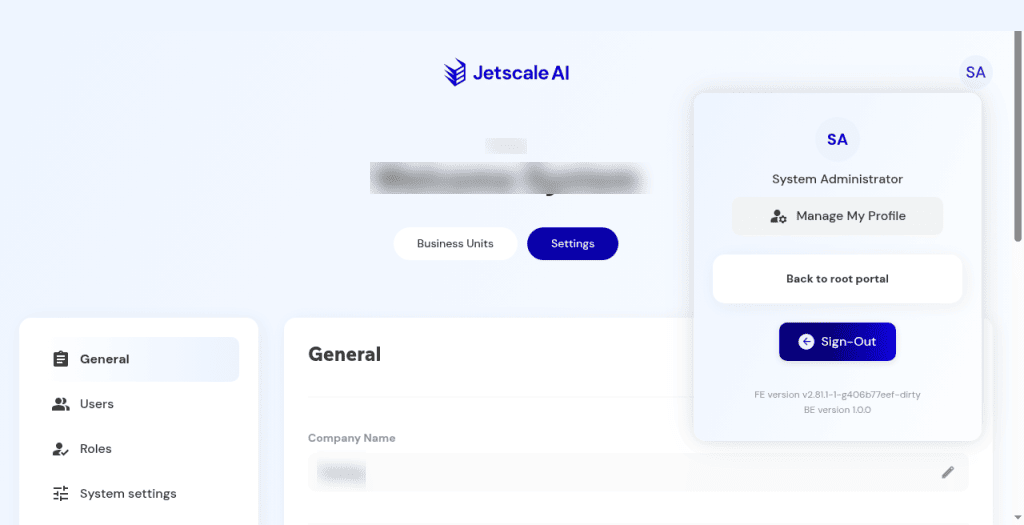
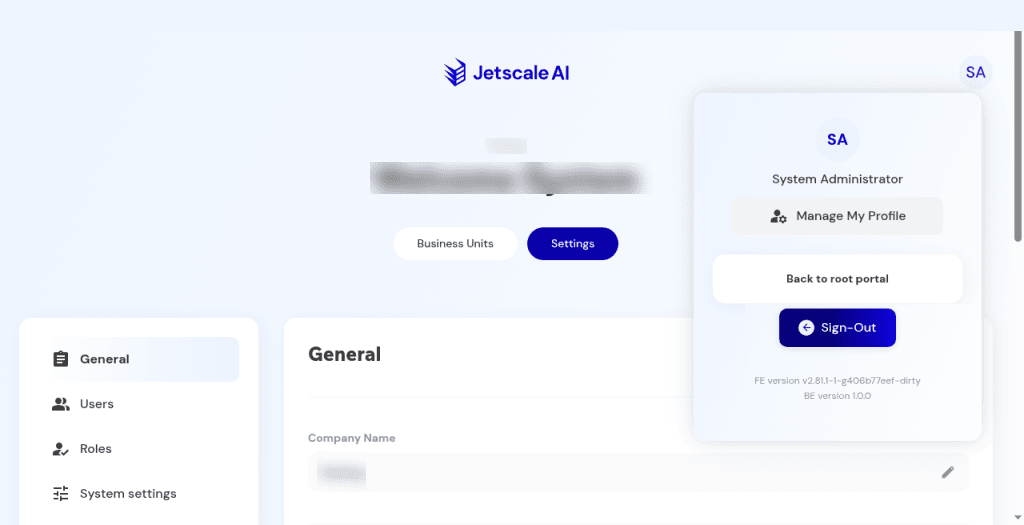
Remove root-portal and Manage Account chrome from Product shots.
The company profile menu keeps only Manage my profile and Sign out. The resources empty state no longer names Manage Account or shows the debug toggle, and the recommendations steps number in order.

Changed region(s): [[0.75, 0.579, 0.9062, 0.7924]]

diff --git a/product/main/recommendations.md b/product/main/recommendations.md
@@ -18,14 +18,14 @@ Anyone working the savings loop. Opening the list requires permission to view re
 
    **Production console**
 
-1. On a build with category tabs, the tabs are **Compute**, **Storage**, **Database**, and **Inference**. There is no Network tab.
+2. On a build with category tabs, the tabs are **Compute**, **Storage**, **Database**, and **Inference**. There is no Network tab.
 
    ![Recommendations on the Compute tab. The tabs are Compute, Storage, Database, and Inference.](../images/main/recommendations-local-compute.png)
 
    **Non-production console**
 
-1. On a single-table build, use search, the columns menu, the filter drawer, sortable headers, and page size. Observed page sizes include 10, 25, and 50.
-1. Open a row for detail. Continue with [Activity and status](recommendation-activity-and-status.md).
+3. On a single-table build, use search, the columns menu, the filter drawer, sortable headers, and page size. Observed page sizes include 10, 25, and 50.
+4. Open a row for detail. Continue with [Activity and status](recommendation-activity-and-status.md).
 
 **Network** is one of the resource categories inside the filter drawer, together with Compute, Storage, Database, Inference, Reserved Instance, Savings Plan, Analytics, Integration, Monitoring, Security, Management, and Developer Tools. The drawer's **Apply** only applies those filters. It does not apply a change to the cloud.
 

diff --git a/product/main/resources.md b/product/main/resources.md
@@ -21,9 +21,9 @@ Operators checking discovery when the menu item is there.
 
    **Non-production console**
 
-5. An empty account says nothing has been discovered yet.
+5. An empty account says no discovered resources yet. Run discovery to populate this list.
 
-   ![Resources empty state when nothing has been discovered yet.](../images/main/resources-empty.png)
+   ![Resources empty state. No discovered resources yet. Run discovery to populate this list.](../images/main/resources-empty.png)
 
    **Non-production console**
 
